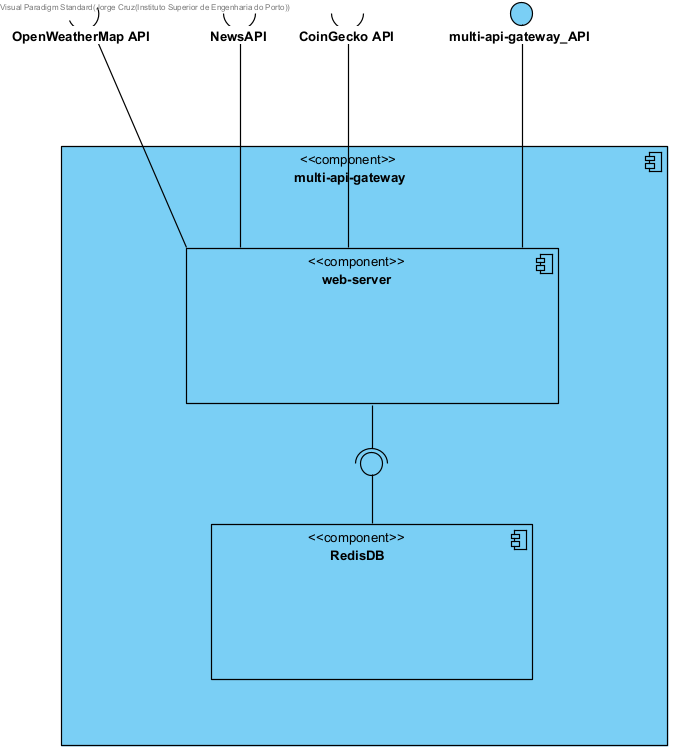
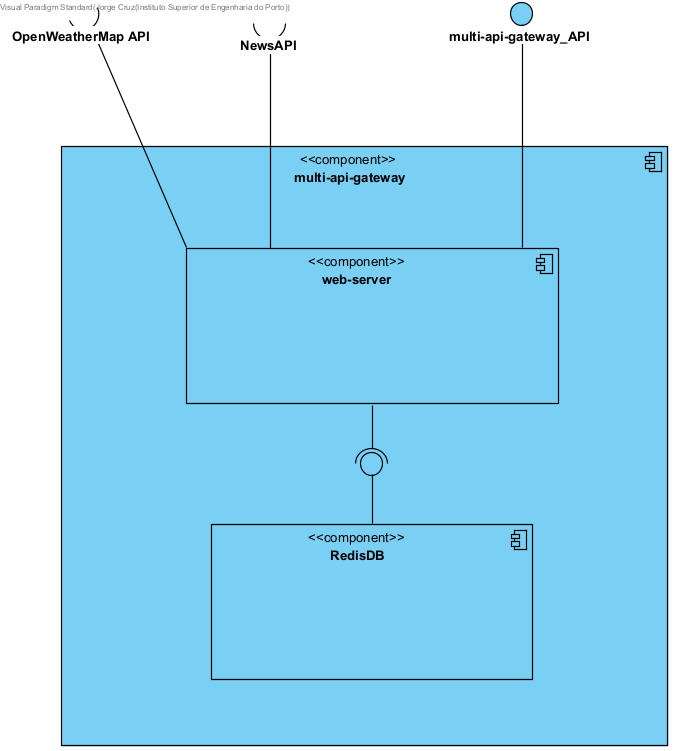
Documentation update. Yaml update

Changed region(s): [[0.312, 0.0306, 0.5929, 0.2144]]

diff --git a/README.md b/README.md
@@ -10,10 +10,16 @@ Responses are cached in **Redis** to improve speed and reduce API call limits.
 - Unified API gateway (`/api/...`) for clients
 - Built-in caching with **Redis**
 - Lightweight **Express.js** server
-- Ready for containerization (Docker support planned)
 
 ## 🏗 Architecture
 ![Architecture Diagram](./docs/LogicalView_L2.png)
+
+## 💡 Usage
+The service automatically merges and normalizes data from multiple APIs.
+
+Cached responses are stored for a configurable time (default: 10 minutes) to minimize external API requests.
+
+Easy to extend: add new API integrations in the services/ directory and update the gateway routes.
 
 ## 📦 Tech Stack
 - [Node.js](https://nodejs.org/)
